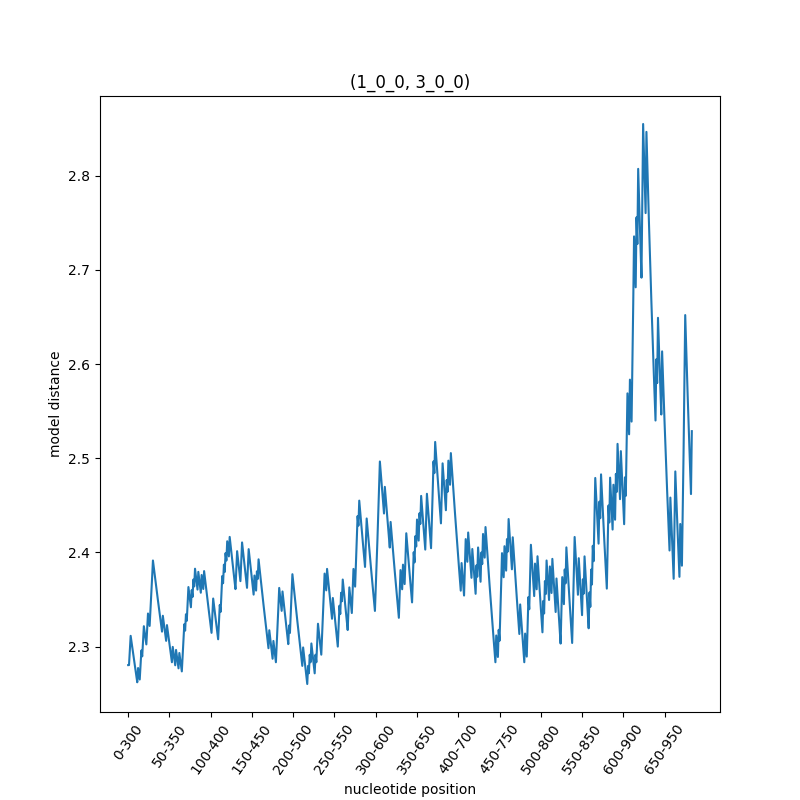
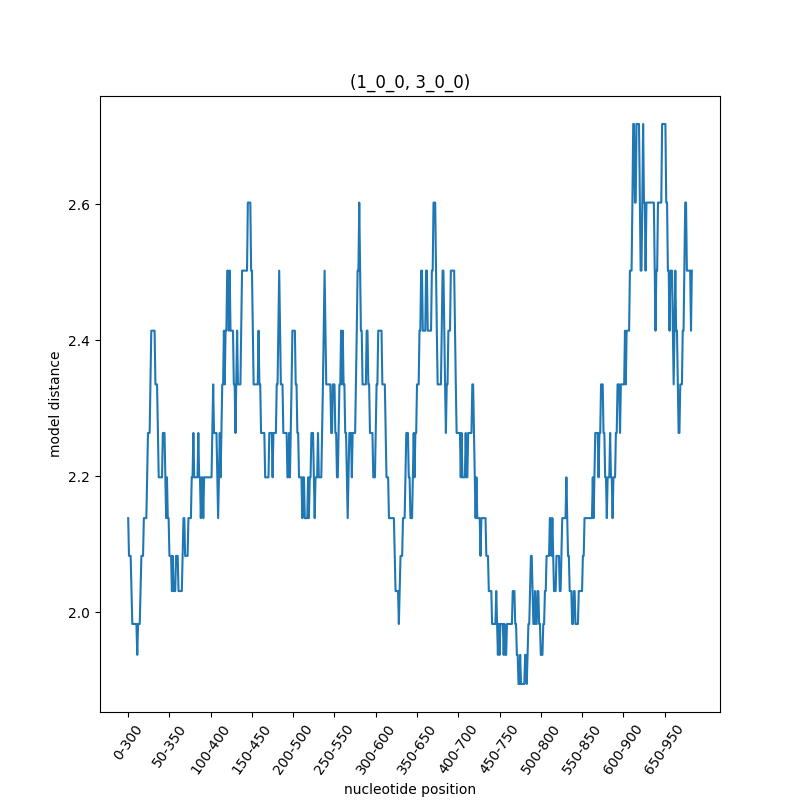
C# JC distance

Changed region(s): [[0.1562, 0.1562, 0.875, 0.875], [0.0938, 0.5625, 0.125, 0.5938]]

diff --git a/src/distance_calculation.py b/src/distance_calculation.py
@@ -2,6 +2,33 @@ import math
 
 import numpy
 
+from src.seq_operations import get_by_name
+
+def sliding_window_dist(seqs, tree, window_size):
+    dists = []
+    names = []
+    if window_size > len(seqs[0]):
+        print('length out of boundary')
+        return
+    if window_size == 0:
+        print('window size 0')
+        return
+    if window_size == len(seqs[0]):
+        input_records = prepare_input_seqs(seqs, tree, 0, len(seqs[0])-1)
+        names = [x[0] for x in input_records]
+        input_seqs = [x[1].seq for x in input_records]
+        dist = jukes_cantor(input_seqs)
+        dists.append(dist)
+    else:
+        for index in range(0, len(seqs[0]) - window_size):
+            start = index
+            end = index + window_size
+            input_records = prepare_input_seqs(seqs, tree, start, end)
+            names = [x[0] for x in input_records]
+            input_seqs = [x[1].seq for x in input_records]
+            dist = jukes_cantor(input_seqs)
+            dists.append(dist)
+    return names, numpy.mean(dists, axis=0), dists
 
 def jukes_cantor(seqs):
     # Jukes Cantor distance formula: (-3/4)ln[1-p*(4/3)]
@@ -10,25 +37,38 @@ def jukes_cantor(seqs):
     results = numpy.zeros((n, n))
     for i in range(0, n):
         for j in range(0, n):
-            p = ps[i][j]
-            d = -0.75 * math.log(1 - (p * 4 / 3)) if p else 0
+            if i == j:
+                d = 0
+            else:
+                p = ps[i][j]
+                d = -0.75 * math.log(1 - (p * 4 / 3))
             results[i][j] = d
     return results
+
+def prepare_input_seqs(seqs, tree, s_position, e_position):
+    input_seqs = {}
+    taxa = tree.get_terminals()
+    for t in taxa:
+        seq = get_by_name(seqs, t.name)
+        input_seqs[t.name] = seq[s_position:e_position]
+
+    return sorted(input_seqs.items())
 
 
 def percent_difference_of_nucleotides(seqs, nucleobases=set('ACGT')):
     # percentage of nucleotide difference in two sequences
     n = len(seqs)
-    diff_count = 0  # number of nucleotide differences
-    valid_nucleotides_count = 0.0  # number of valid nucleotides (value is float for computing percentage)
-    results = numpy.zeros((len(seqs), len(seqs)))
-    for i in range(0,n):
+    results = numpy.zeros((n, n))
+    for i in range(0, n):
         seq1 = seqs[i]
-        for j in range(0,n):
+        for j in range(0, n):
             seq2 = seqs[j]
+            diff_count = 0  # number of nucleotide differences
+            valid_nucleotides_count = 0.0  # number of valid nucleotides (value is float for computing percentage)
             for a, b in zip(seq1, seq2):
                 if a in nucleobases and b in nucleobases:
                     valid_nucleotides_count += 1
-                    if a != b: diff_count += 1
+                    if a != b:
+                        diff_count += 1
             results[i][j] = diff_count / valid_nucleotides_count if valid_nucleotides_count else 0
     return results

diff --git a/src/main.py b/src/main.py
@@ -4,17 +4,18 @@ from cogent3.evolve import models
 from Bio import Phylo
 
 import tests
+from src.distance_calculation import sliding_window_dist
 from src.fileIO import delete_folder, load_tree, load_aln, write_data, load_distance, load_tags
 from src.path import ALN_PATH, SIMPHY_PATH, PICTURE_PATH, TXT_PATH
 from src.show import plot_points_scatter, show_table, plot_surface, plot_histogram_3d, plot_histogram_2d, \
     plot_histogram_2d_onplanes, plot_histogram_2d_group, plot_histogram_2d_compare, plot_sliding_window
 from src.sample_generation import sequence_generation_indelible, tree_generation_simphy
-from src.seq_operations import get_by_name, calculate_distance_aligned_seq, prep_input_seq, dist_window_average, \
+from src.seq_operations import get_by_name, calculate_distance_aligned_seq, dist_window_average, \
     WINDOW_SIZE, SLIDING_STEP
 from src.tree_operation import lookup_by_names, pairwaise_terminal_dist
 
 
-def calculate_distances(tree,seqs):
+def calculate_distances(tree, seqs):
     names, avg_model_distance, model_distances = dist_window_average(seqs, tree, 'JC69', WINDOW_SIZE)
     # input_seqs = prep_input_seq(seqs, tree, start, end)
     # names, model_distance = calculate_distance_aligned_seq(input_seqs, 'JC69')
@@ -42,16 +43,17 @@ if __name__ == '__main__':
         num = f'{i:02d}'
         g_tree = load_tree(SIMPHY_PATH + '2/g_trees'+num+'v2.trees', 'newick')
         seqs = load_aln(SIMPHY_PATH + '2/data_'+num+'v2_TRUE.phy', 'phylip')
+        # names, model_distance, model_distance_list = sliding_window_dist(seqs,g_tree,WINDOW_SIZE)
         # print(len(seqs[0]))
         model_distance, tree_distance, names, model_distance_list = calculate_distances(g_tree, seqs)
         show_table(model_distance, names, 'JC69')
         show_table(tree_distance, names, 'Tree')
-        # write_data(model_distance,tree_distance,names,TXT_PATH)
+        write_data(model_distance,tree_distance,names,TXT_PATH)
         # load_distance(TXT_PATH+'tree_dist.txt')
         # load_tags(TXT_PATH+'tags.txt')
         # Phylo.draw(g_tree,do_show=False)
         # plt.savefig(PICTURE_PATH +'2/g_tree'+num+'.png')
-        # plot_histogram_2d_compare(model_distance, tree_distance, names, '2/data_'+num)
+        plot_histogram_2d_compare(model_distance, tree_distance, names, '2/data_'+num)
         plot_sliding_window(model_distance_list,(len(seqs[0])-WINDOW_SIZE),SLIDING_STEP,names,PICTURE_PATH + '2/sliding_window/')
 
 

diff --git a/src/seq_operations.py b/src/seq_operations.py
@@ -6,7 +6,7 @@ from cogent3.evolve import distance
 from Bio import Align
 
 
-WINDOW_SIZE = 200
+WINDOW_SIZE = 300
 SLIDING_STEP = 1
 # Models:
 # 'JC69', 'K80', 'F81', 'HKY85', 'TN93', 'GTR', 'ssGN', 'GN', 'BH', 'DT', 'CNFGTR', 'CNFHKY', 'MG94HKY', 'MG94GTR',
@@ -67,11 +67,8 @@ def dist_window_average(seqs, tree, model: str, window_size: int):
     else:
         for index in range(0, len(seqs[0]) - window_size):
             start = index
-            end = index + len(seqs[0]) - 1
+            end = index + window_size
             input_seqs = prep_input_seq(seqs, tree, start, end)
-            if len(dists) > 750:
-                print(len(dists))
-
             names, dist = calculate_distance_aligned_seq(input_seqs, model)
             dists.append(dist.to_array())
     return names, numpy.mean(dists, axis=0), dists
